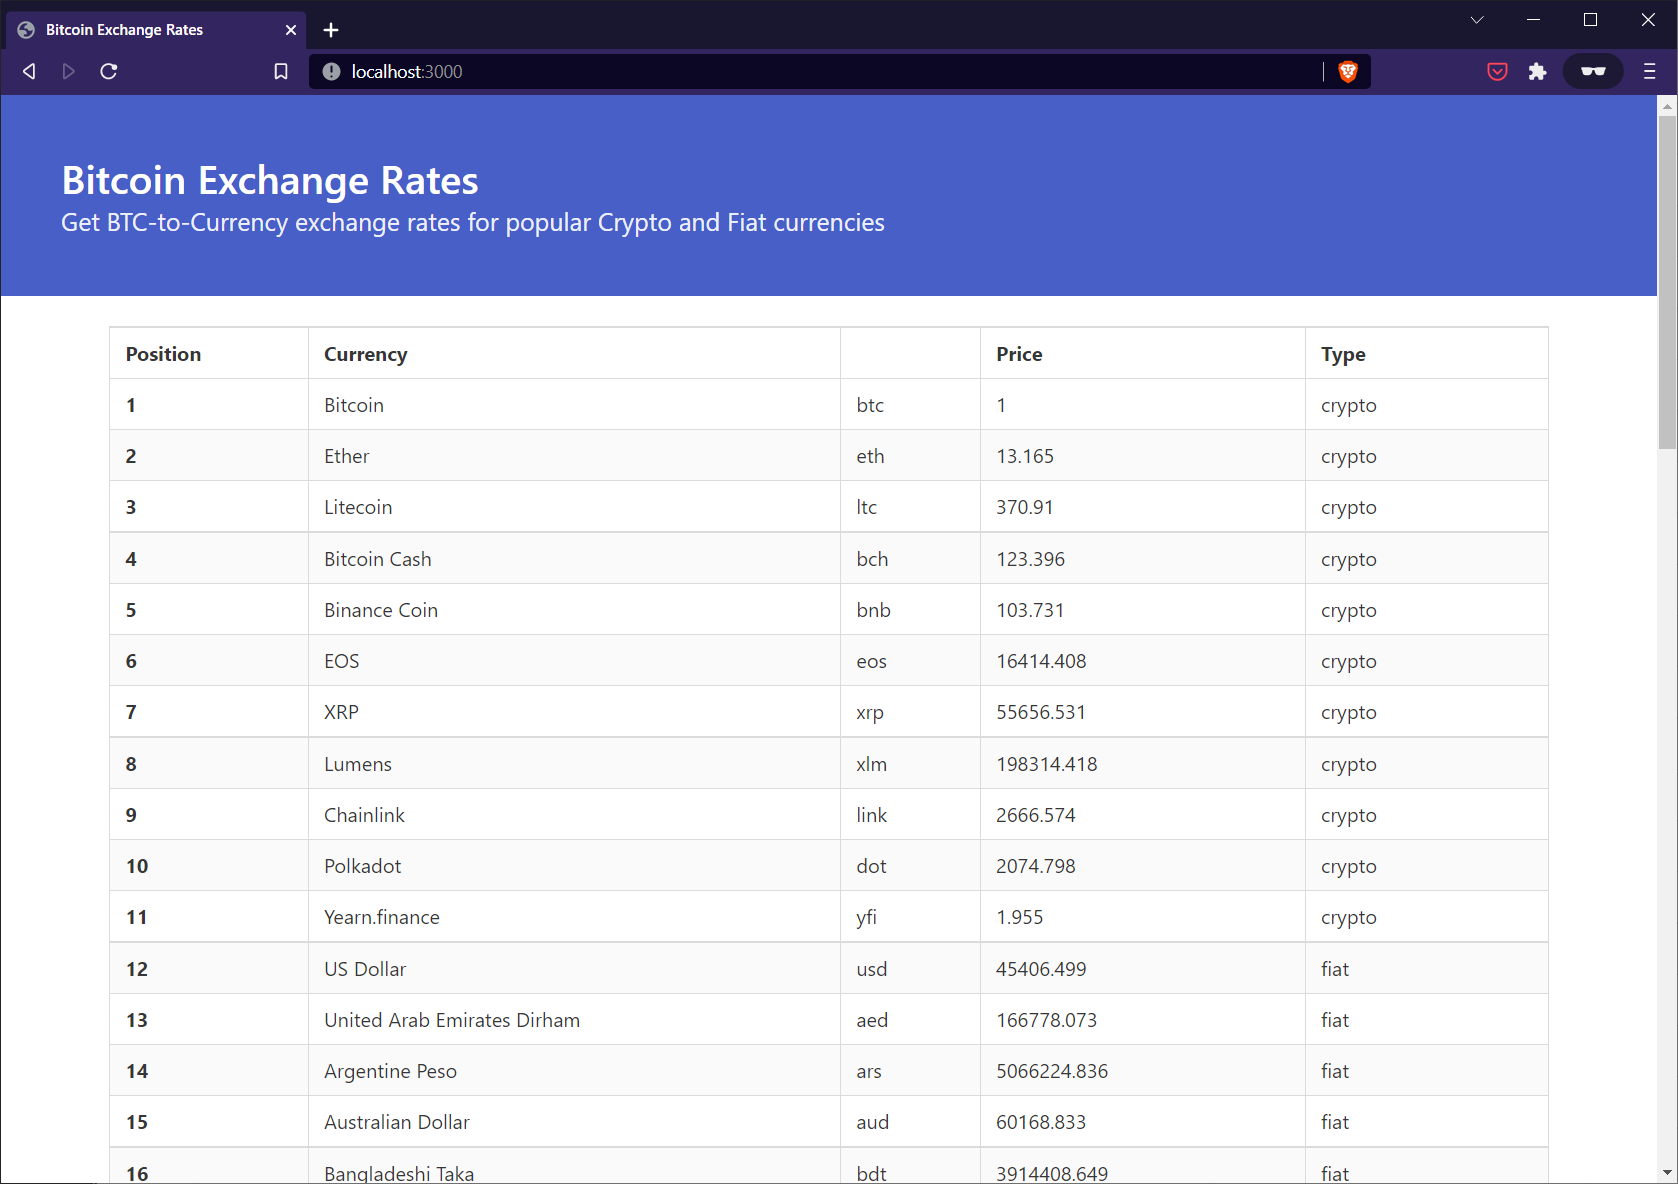
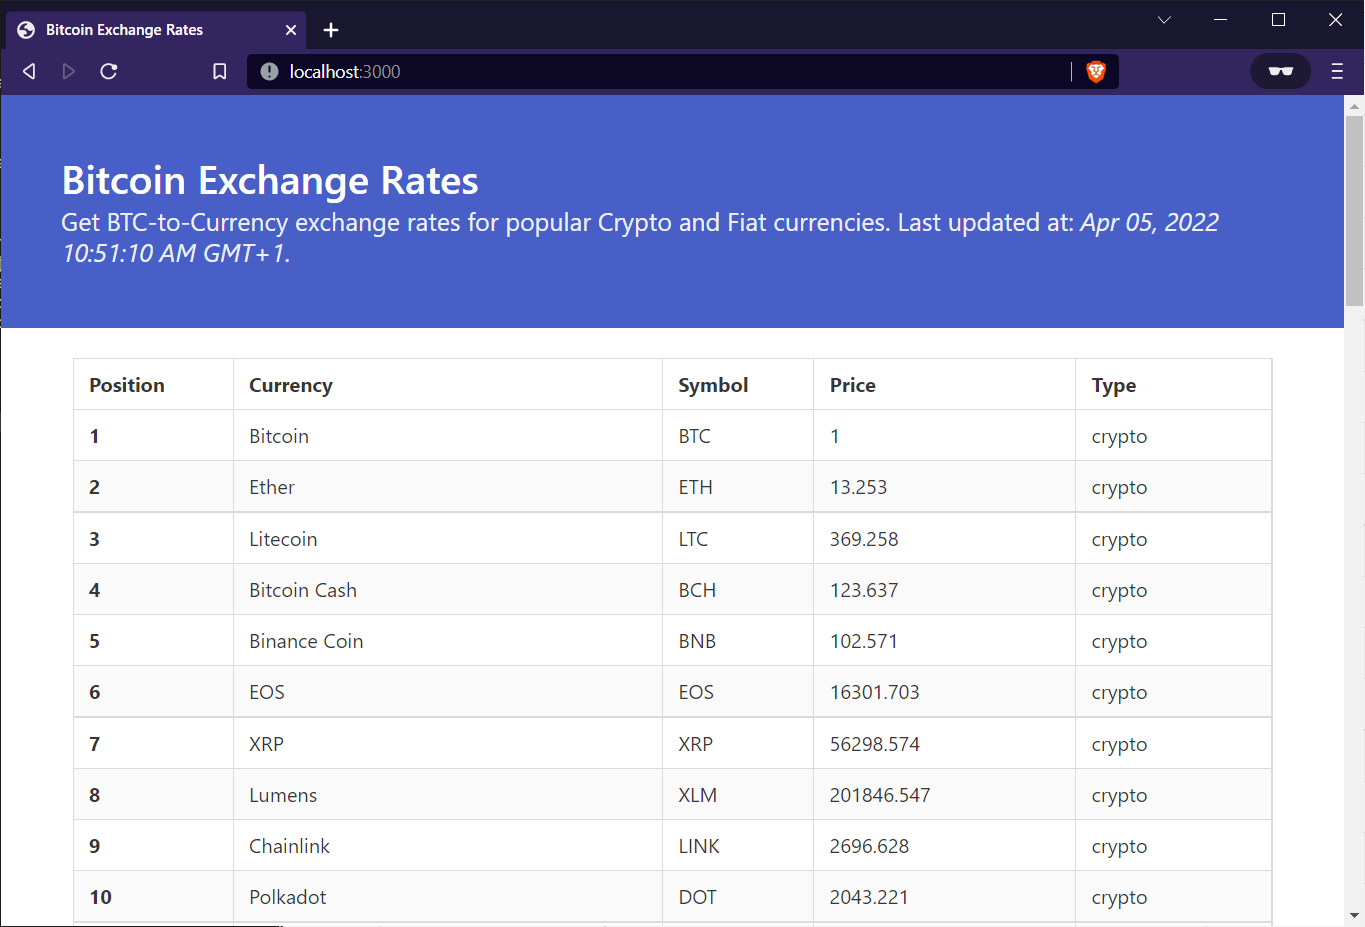
Updates

diff --git a/server.js b/server.js
@@ -3,6 +3,7 @@ const path = require('path');
 const axios = require('axios');
 const morgan = require('morgan');
 const NodeCache = require('node-cache');
+const dateFns = require('date-fns');
 
 const appCache = new NodeCache();
 
@@ -38,12 +39,16 @@ async function getExchangeRates() {
 
 async function refreshExchangeRates() {
   const rates = await getExchangeRates();
-  appCache.set('exchangeRates', rates, 600);
-  console.log('Exchange rates cache updated');
-  return rates;
-}
+  const result = {
+    timestamp: Date.now(),
+    rates,
+  };
 
-refreshExchangeRates();
+  appCache.set('exchangeRates', result, 600);
+
+  console.log('Exchange rates cache updated');
+  return result;
+}
 
 appCache.on('expired', async (key) => {
   try {
@@ -55,38 +60,36 @@ appCache.on('expired', async (key) => {
   }
 });
 
-app.get('/', async (req, res, next) => {
+app.get('/', async (_req, res, next) => {
   try {
-    let rates = appCache.get('exchangeRates');
+    let data = appCache.get('exchangeRates');
 
-    if (rates == null) {
-      rates = await refreshExchangeRates();
+    if (data == null) {
+      data = await refreshExchangeRates();
     }
 
     res.render('home', {
       title: 'Bitcoin Exchange Rates',
-      rates,
+      lastUpdated: dateFns.format(data.timestamp, 'LLL dd, yyyy hh:mm:ss a O'),
+      data,
     });
   } catch (err) {
     next(err);
   }
 });
 
-app.get('/joke', async (req, res, next) => {
-  try {
-    const response = await getRandomJoke();
-    res.json(response);
-  } catch (err) {
-    next(err);
-  }
-});
-
-app.use(function (err, req, res, next) {
+app.use(function (err, _req, res, _next) {
   console.error(err);
   res.set('Content-Type', 'text/html');
   res.status(500).send('<h1>Internal Server Error</h1>');
 });
 
-const server = app.listen(process.env.PORT || 3000, () => {
+const server = app.listen(process.env.PORT || 3000, async () => {
   console.log(`server started on port: ${server.address().port}`);
+
+  try {
+    await refreshExchangeRates();
+  } catch (err) {
+    console.error('Unable to refresh exchange rate due to error: ', err);
+  }
 });

diff --git a/README.md b/README.md
@@ -4,7 +4,7 @@ Get BTC-to-Currency exchange rates for popular Crypto and Fiat currencies.
 
 **Tutorial**: []().
 
-![Screenshot or GIF of the application in action](screenshot.png).
+![Screenshot or GIF of the application in action](screenshot.png)
 
 ## 🟢 Prerequisites
 
